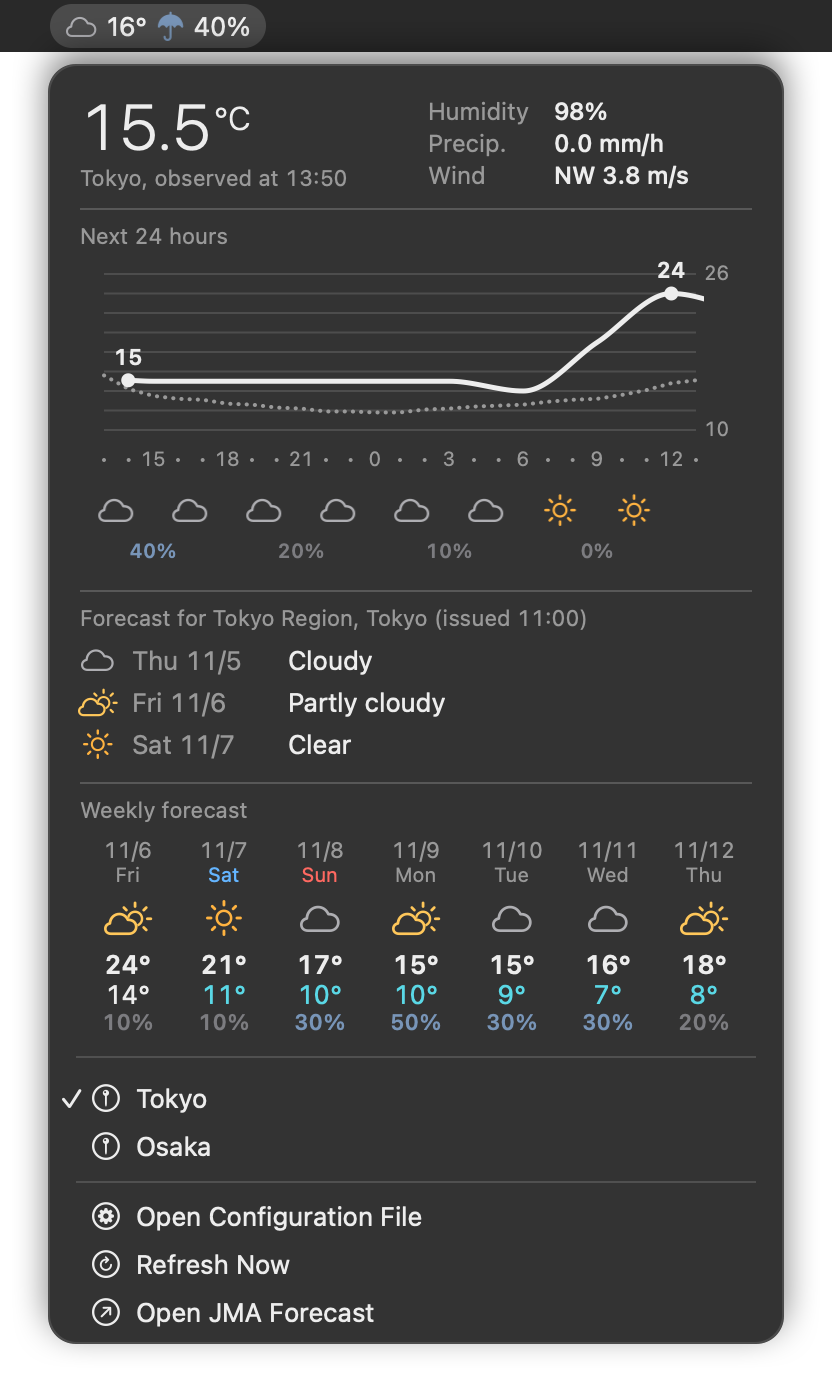
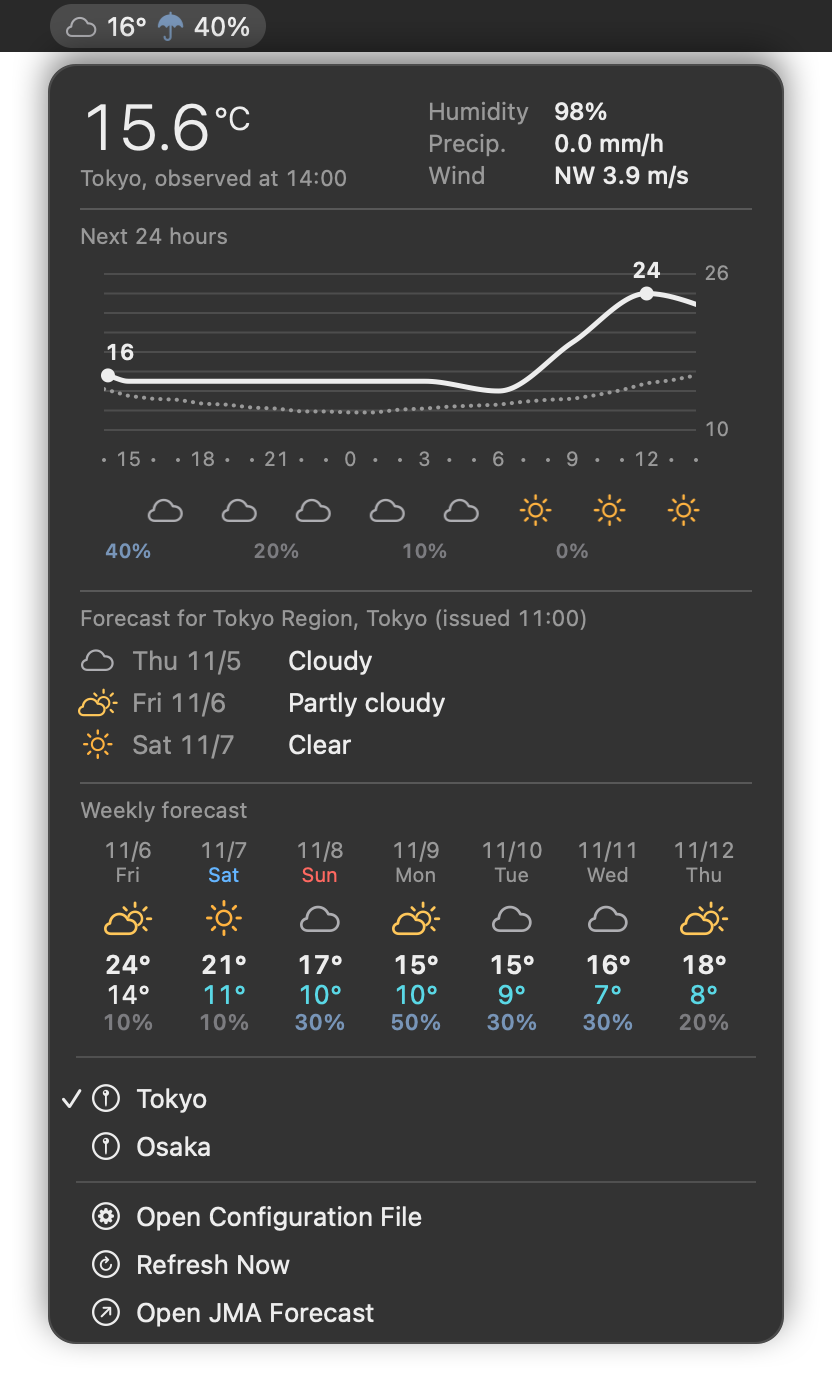
weather: 気温のグラフの線を、範囲ちょうどで切る
予報は 3 時間ごとなので、右端 (24 時間後) を過ぎた次の点まで線を引いて切り落とす。
線の端の丸みのために範囲の 4pt 外側で切っていたので、右端で線が範囲の外まで伸び
かけて途中で切れたように見えていた (過去の点線の左端も同じ)。範囲ちょうどで切り、
両端を目盛りの線の端にそろえる。

diff --git a/Sources/weather-card/main.swift b/Sources/weather-card/main.swift
@@ -348,7 +348,10 @@ if let g = input.graph {
     text(fmt(lo), x: plot.maxX + 4, y: y(lo) - 7, size: 10, color: sub)
 
     ctx.saveGState()
-    ctx.clip(to: CGRect(x: plot.minX - 4, y: plot.minY - 20, width: plot.width + 8, height: plot.height + 40))
+    // 横はグラフの範囲ちょうどで切る。予報は 3 時間ごとなので、右端 (24 時間後) を
+    // 過ぎた次の点まで線を引き、範囲の境目で切り落とす。外側に余白を取ると、線が
+    // 範囲の外まで伸びかけて途中で切れたように見える。
+    ctx.clip(to: CGRect(x: plot.minX, y: plot.minY - 20, width: plot.width, height: plot.height + 40))
     func path(_ pts: [(Double, Double)]) {
         for (i, p) in pts.enumerated() {
             let q = CGPoint(x: x(p.0), y: y(p.1))
